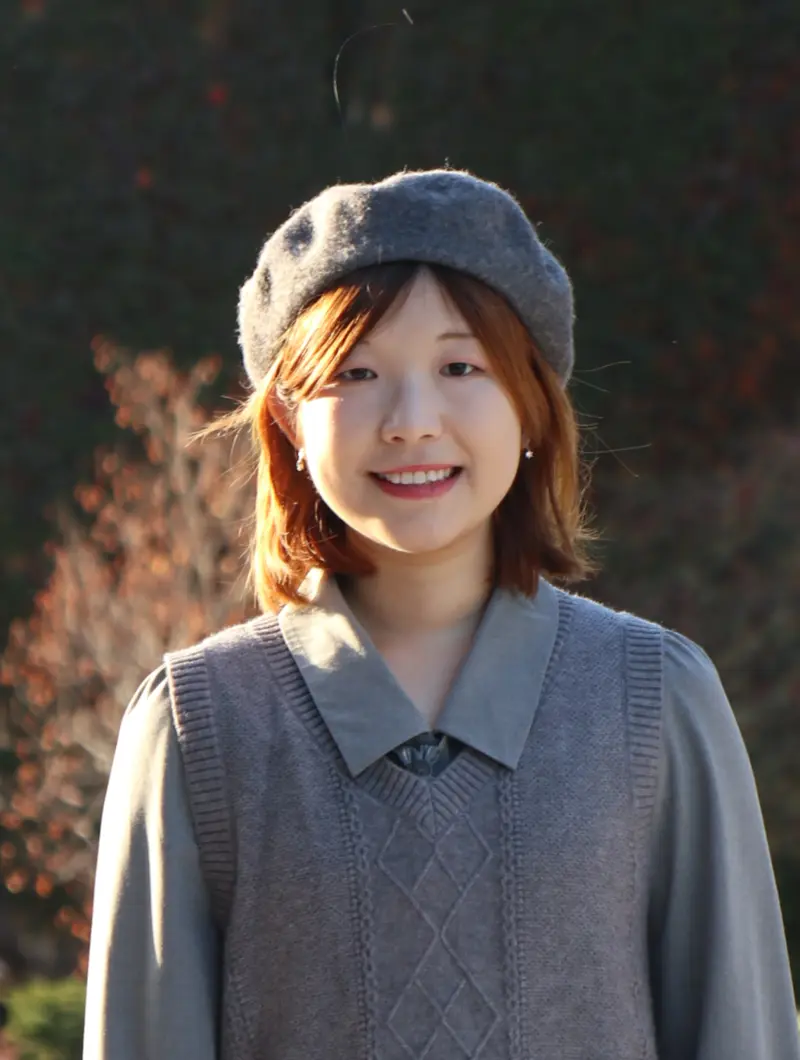
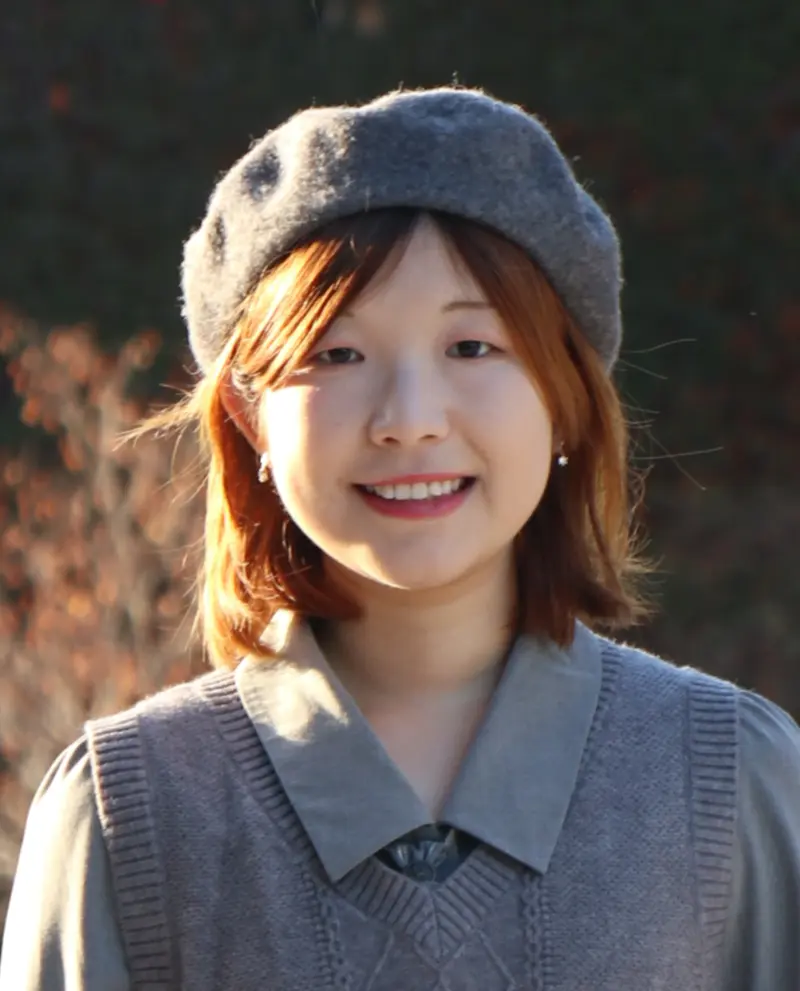
Deploying to gh-pages from @ shizhe-yu/shizhe-yu.github.io@d6780a5cca228e3dfb8b6f22a7849fc834a4d0fb 🚀

diff --git a/index.html b/index.html
@@ -4,7 +4,7 @@
   }
 </style> <link rel="stylesheet" href="/assets/css/tailwind.css?v=50c64c15cbb9fd1ce6056fdb8bcb4b62"> <link defer rel="stylesheet" href="https://cdn.jsdelivr.net/npm/@fortawesome/fontawesome-free@7.2.0/css/all.min.css" integrity="sha256-MVopmdyC2tYTiJ8wlktf0uh0v4NgT+vNdyVFepi7Q0c=" crossorigin="anonymous"> <link defer rel="stylesheet" href="https://cdn.jsdelivr.net/npm/academicons@1.9.5/css/academicons.min.css" integrity="sha256-SzrCOBJbGVFMahewkgjwnApaV2+av1DwMAA+/QGLyZw=" crossorigin="anonymous"> <link defer rel="stylesheet" href="https://cdn.jsdelivr.net/npm/scholar-icons@1.0.3/css/scholar-icons.css" integrity="sha256-VY3hHVj/hNX3fYG6wtbA6TcKJQl7+FthzGSyIB64klY=" crossorigin="anonymous"> <link defer rel="stylesheet" type="text/css" href="https://fonts.googleapis.com/css?family=Roboto:300,400,500,700|Roboto+Slab:100,300,400,500,700|Material+Icons&amp;display=swap"> <link defer rel="stylesheet" href="/assets/css/jekyll-pygments-themes-github.css?v=591dab5a4e56573bf4ef7fd332894c99" media="" id="highlight_theme_light"> <link rel="shortcut icon" href="/assets/img/favicon.png?v=1e0cdf08e6a2a930fee9e3940c57f973"> <link rel="apple-touch-icon" href="/assets/img/apple-touch-icon.png?v=082fb7749f19d6affb21143a10e3ae39"> <link rel="stylesheet" href="/assets/css/main.css?v=3116ba77db9ee1581d05bb3e86fbf7f1"> <link rel="canonical" href="https://shizhe-yu.github.io/"> <script src="/assets/js/theme.js?v=5286c3e4c334d0ecb8fc0c40ff4fa7ec"></script> <link defer rel="stylesheet" href="/assets/css/jekyll-pygments-themes-native.css?v=5847e5ed4a4568527aa6cfab446049ca" media="none" id="highlight_theme_dark"> <script>
     initTheme();
-  </script> </head> <body class="fixed-top-nav "> <header> <nav id="navbar" class="navbar navbar-light navbar-expand-sm fixed-top" role="navigation"> <div class="container"> <button class="navbar-toggler collapsed navbar-toggler-main" type="button" data-nav-toggle="navbarNav" aria-controls="navbarNav" aria-expanded="false" aria-label="Toggle navigation"> <span class="sr-only">Toggle navigation</span> <span class="icon-bar top-bar"></span> <span class="icon-bar middle-bar"></span> <span class="icon-bar bottom-bar"></span> </button> <div class="collapse navbar-collapse navbar-collapse-main" id="navbarNav"> <ul class="navbar-nav navbar-menu-list flex-nowrap"> <li class="nav-item active"> <a class="nav-link" href="/">About <span class="sr-only">(current)</span> </a> </li> <li class="nav-item "> <a class="nav-link" href="/research/">Research </a> </li> <li class="nav-item "> <a class="nav-link" href="/misc/">Misc </a> </li> <li class="nav-item"> <button id="search-toggle" type="button" title="Search" aria-label="Open search"> <span class="nav-link">ctrl k <i class="fa-solid fa-magnifying-glass"></i></span> </button> </li> <li class="toggle-container"> <button id="light-toggle" type="button" title="Change theme" aria-label="Change color theme"> <i class="fa-half-sun-moon" id="light-toggle-system"></i> <i class="fa-solid fa-moon" id="light-toggle-dark"></i> <i class="fa-solid fa-sun" id="light-toggle-light"></i> </button> </li> </ul> </div> </div> </nav> <progress id="progress" value="0"> <div class="progress-container"> <span class="progress-bar"></span> </div> </progress> </header> <div class="container mt-5" role="main"> <div class="post"> <header class="post-header"> <h1 class="post-title"> <span class="font-weight-bold">Shizhe</span> Yu </h1> <p class="desc"></p> </header> <article> <div class="profile float-left"> <figure> <picture> <source class="responsive-img-srcset" srcset="/assets/img/prof_pic-480.webp 480w,/assets/img/prof_pic-800.webp 800w,/assets/img/prof_pic-1400.webp 1400w," type="image/webp" sizes="(min-width: 930px) 270.0px, (min-width: 576px) 30vw, 95vw"> <img src="/assets/img/prof_pic.png?v=5598dfbd0f4ad36f8f6501a8f4460aaf" class="img-fluid z-depth-1 rounded" width="100%" height="auto" alt="prof_pic.png" loading="eager" onerror="this.onerror=null; document.querySelectorAll('.responsive-img-srcset').forEach(function (n) { n.remove(); });"> </source></picture> </figure> <div class="more-info"> <p>Office 7222, 1180 Observatory Dr</p> <p>Madison, WI 53706</p> <div class="profile-icons"> <a href="mailto:shizhe.yu@wisc.edu" title="Email"><i class="fa-solid fa-envelope"></i></a> <a href="https://econ.wisc.edu/staff/yu-shizhe/" title="Profile" rel="external nofollow noopener" target="_blank"><i class="fa-solid fa-building-columns"></i></a> <a href="/assets/img/wechat_qr.png" title="Wechat Blog" id="wechat-link"><i class="fa-brands fa-weixin"></i></a> </div> </div> </div> <div class="clearfix"> <style>
+  </script> </head> <body class="fixed-top-nav "> <header> <nav id="navbar" class="navbar navbar-light navbar-expand-sm fixed-top" role="navigation"> <div class="container"> <button class="navbar-toggler collapsed navbar-toggler-main" type="button" data-nav-toggle="navbarNav" aria-controls="navbarNav" aria-expanded="false" aria-label="Toggle navigation"> <span class="sr-only">Toggle navigation</span> <span class="icon-bar top-bar"></span> <span class="icon-bar middle-bar"></span> <span class="icon-bar bottom-bar"></span> </button> <div class="collapse navbar-collapse navbar-collapse-main" id="navbarNav"> <ul class="navbar-nav navbar-menu-list flex-nowrap"> <li class="nav-item active"> <a class="nav-link" href="/">About <span class="sr-only">(current)</span> </a> </li> <li class="nav-item "> <a class="nav-link" href="/research/">Research </a> </li> <li class="nav-item "> <a class="nav-link" href="/misc/">Misc </a> </li> <li class="nav-item"> <button id="search-toggle" type="button" title="Search" aria-label="Open search"> <span class="nav-link">ctrl k <i class="fa-solid fa-magnifying-glass"></i></span> </button> </li> <li class="toggle-container"> <button id="light-toggle" type="button" title="Change theme" aria-label="Change color theme"> <i class="fa-half-sun-moon" id="light-toggle-system"></i> <i class="fa-solid fa-moon" id="light-toggle-dark"></i> <i class="fa-solid fa-sun" id="light-toggle-light"></i> </button> </li> </ul> </div> </div> </nav> <progress id="progress" value="0"> <div class="progress-container"> <span class="progress-bar"></span> </div> </progress> </header> <div class="container mt-5" role="main"> <div class="post"> <header class="post-header"> <h1 class="post-title"> <span class="font-weight-bold">Shizhe</span> Yu </h1> <p class="desc"></p> </header> <article> <div class="profile float-left"> <figure> <picture> <source class="responsive-img-srcset" srcset="/assets/img/prof_pic-480.webp 480w,/assets/img/prof_pic-800.webp 800w,/assets/img/prof_pic-1400.webp 1400w," type="image/webp" sizes="(min-width: 930px) 270.0px, (min-width: 576px) 30vw, 95vw"> <img src="/assets/img/prof_pic.png?v=d2769eeb038878a2f0a71701eb3f6f44" class="img-fluid z-depth-1 rounded" width="100%" height="auto" alt="prof_pic.png" loading="eager" onerror="this.onerror=null; document.querySelectorAll('.responsive-img-srcset').forEach(function (n) { n.remove(); });"> </source></picture> </figure> <div class="more-info"> <p>Office 7222, 1180 Observatory Dr</p> <p>Madison, WI 53706</p> <div class="profile-icons"> <a href="mailto:shizhe.yu@wisc.edu" title="Email"><i class="fa-solid fa-envelope"></i></a> <a href="https://econ.wisc.edu/staff/yu-shizhe/" title="Profile" rel="external nofollow noopener" target="_blank"><i class="fa-solid fa-building-columns"></i></a> <a href="/assets/img/wechat_qr.png" title="Wechat Blog" id="wechat-link"><i class="fa-brands fa-weixin"></i></a> </div> </div> </div> <div class="clearfix"> <style>
   /* keep the photo at its original aspect ratio */
   .profile img { height: auto !important; aspect-ratio: auto; object-fit: contain; }
   /* address: same font as the page body, smaller and muted */
